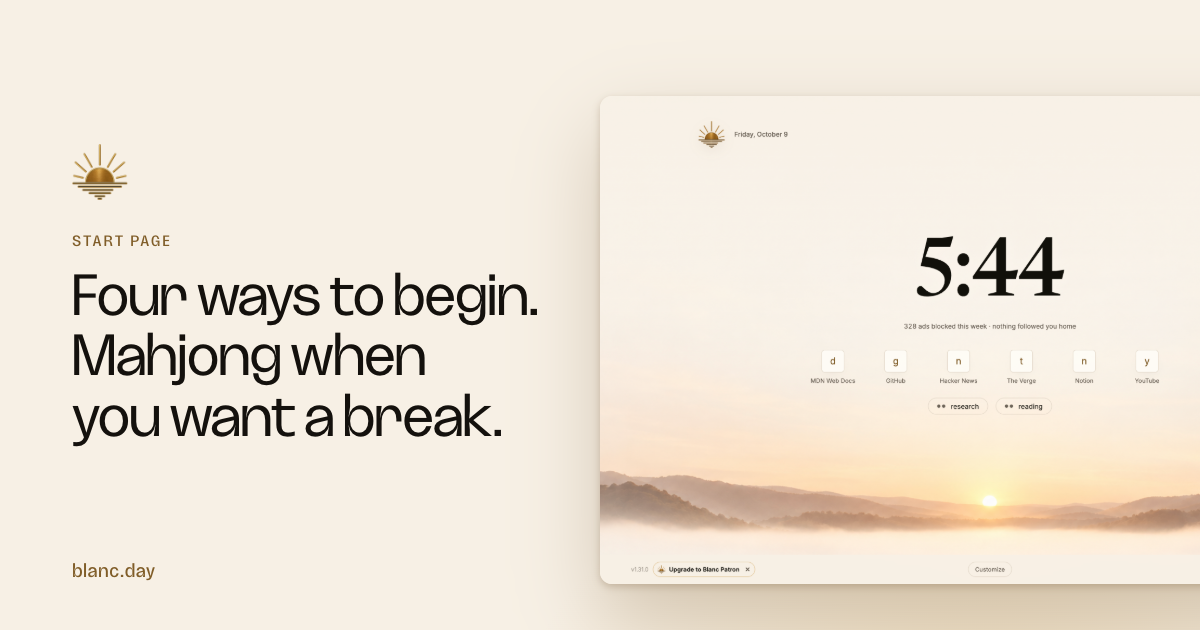
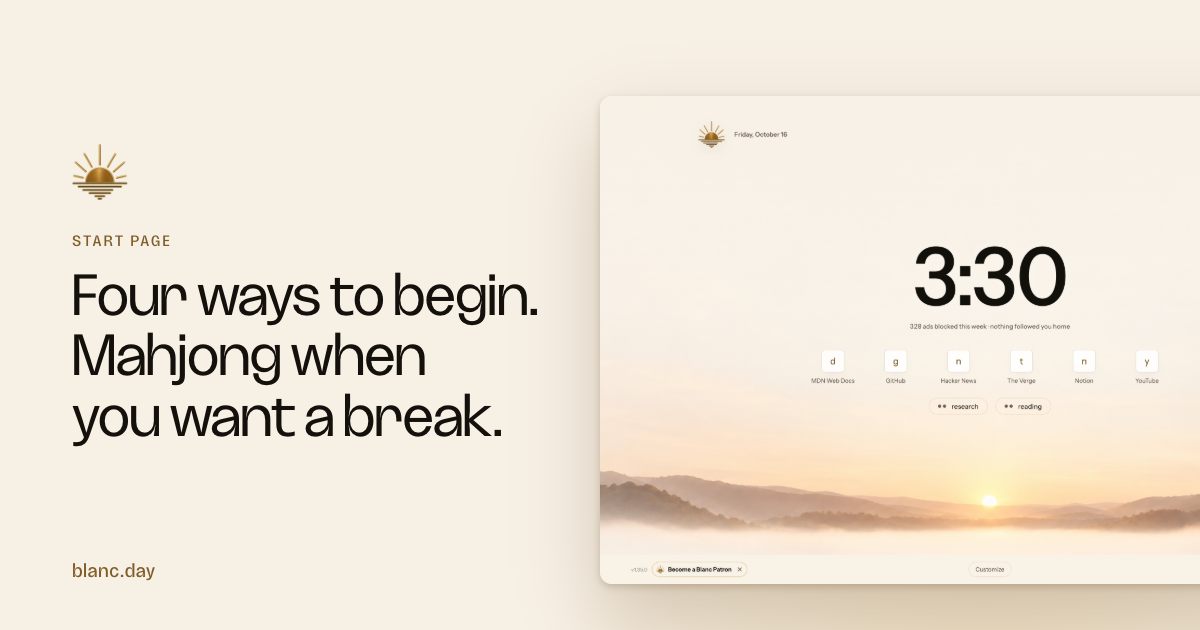
Show the app's Instrument Sans UI on the share cards
The homepage share image (og-image.png) still showed the Start Page from a
v1.31.0 capture, drawn in the app's old faces. Point it, the Start Page card
and the Glance card at the existing v1.35.0 captures, and recapture Blanc
Spaces, Profiles and Reopen Closed Tabs from the installed public v1.36.0 app
for their cards and feature pages (recorded in docs/website-captures-v1.36.0.json).

Reopen Closed Tabs had no capture script, so add
capture-installed-reopen-closed-tabs.mjs: it closes a tab and a whole group
through the shipped actions and unfolds the v1.36.0 Recently closed band. The
Spaces and Profiles scripts now match the strip by its address, since the
overlay shares its preload and could be picked instead.

diff --git a/test/unit/website-feature-evidence.test.js b/test/unit/website-feature-evidence.test.js
@@ -438,6 +438,7 @@ test('public product captures match their reviewed dimensions, hashes, and sourc
     ['docs/website-captures-v1.21.json', previousLedger.publicRelease, previousLedger.sourceSha, 5],
     ['docs/website-captures-v1.30.1.json', 'v1.30.1', '9e337ac583e81bae509cfc970b9d97a81f3287ba', 4],
     ['docs/website-captures-v1.31.0.json', 'v1.31.0', '5bb0e0da01e05d612382fa99a434524ed2c5b108', 4],
+    ['docs/website-captures-v1.36.0.json', 'v1.36.0', '3c214274958c15d8f3b28f8c61f2fac26937e333', 5],
   ];
   for (const [file, release, sourceSha, expectedCount] of manifests) {
     const manifest = JSON.parse(read(file));
